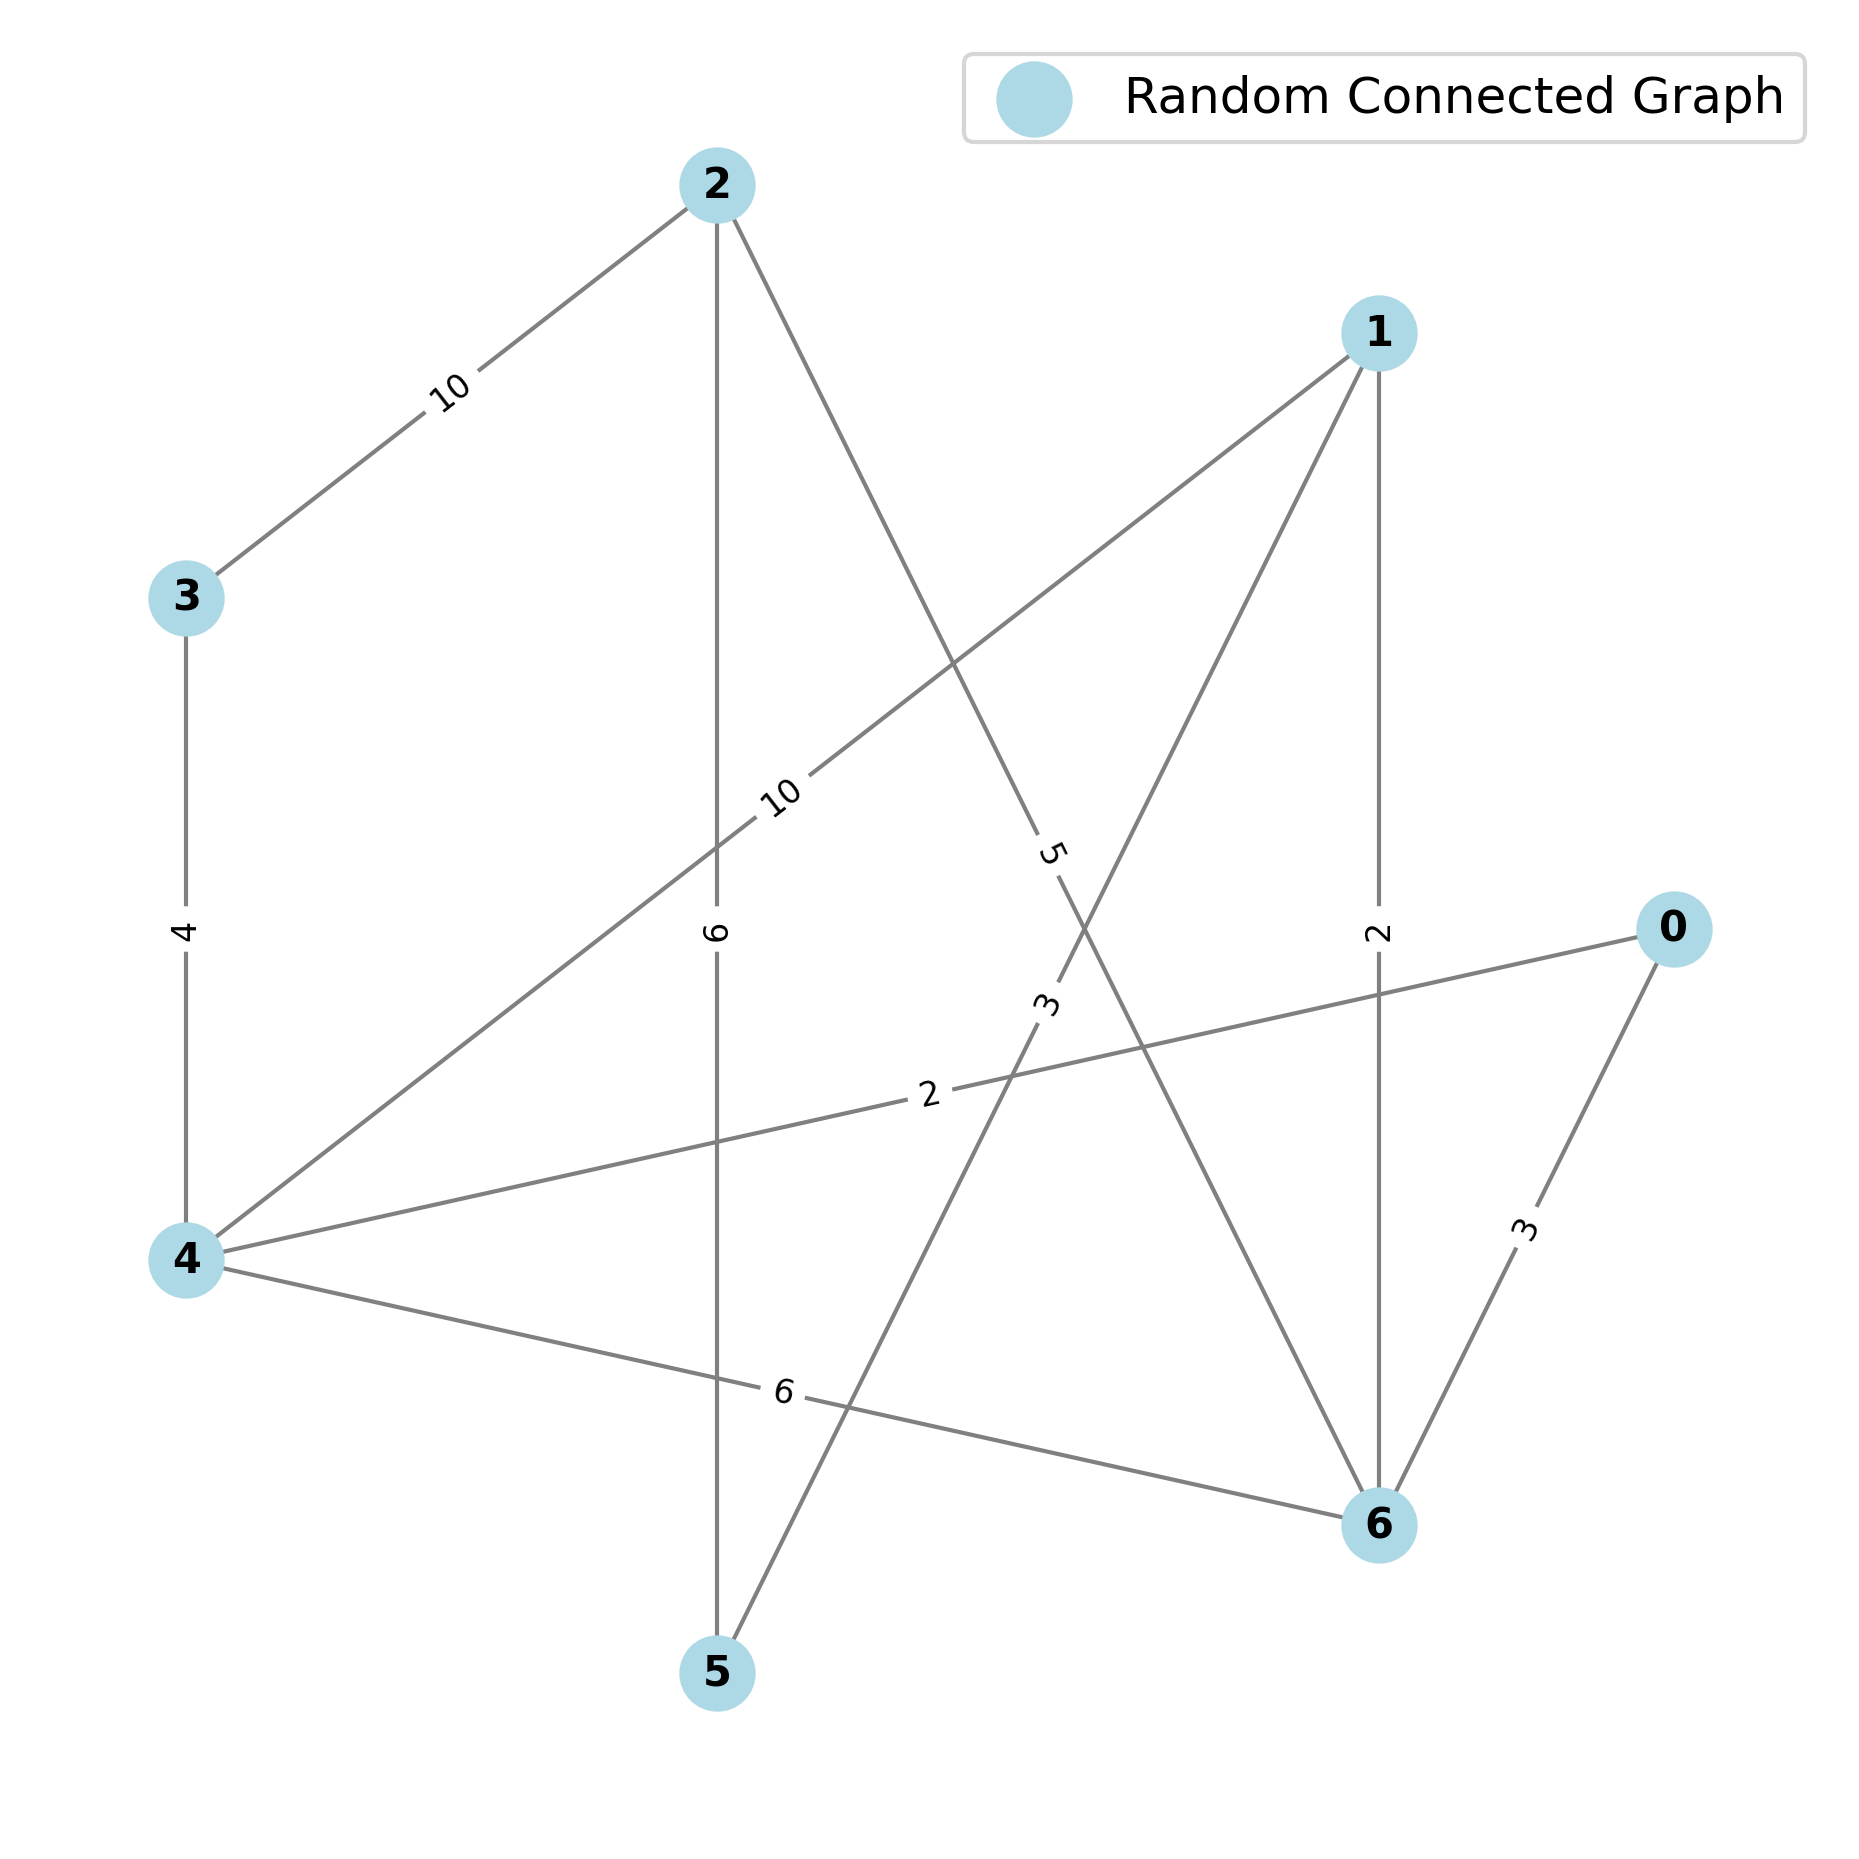
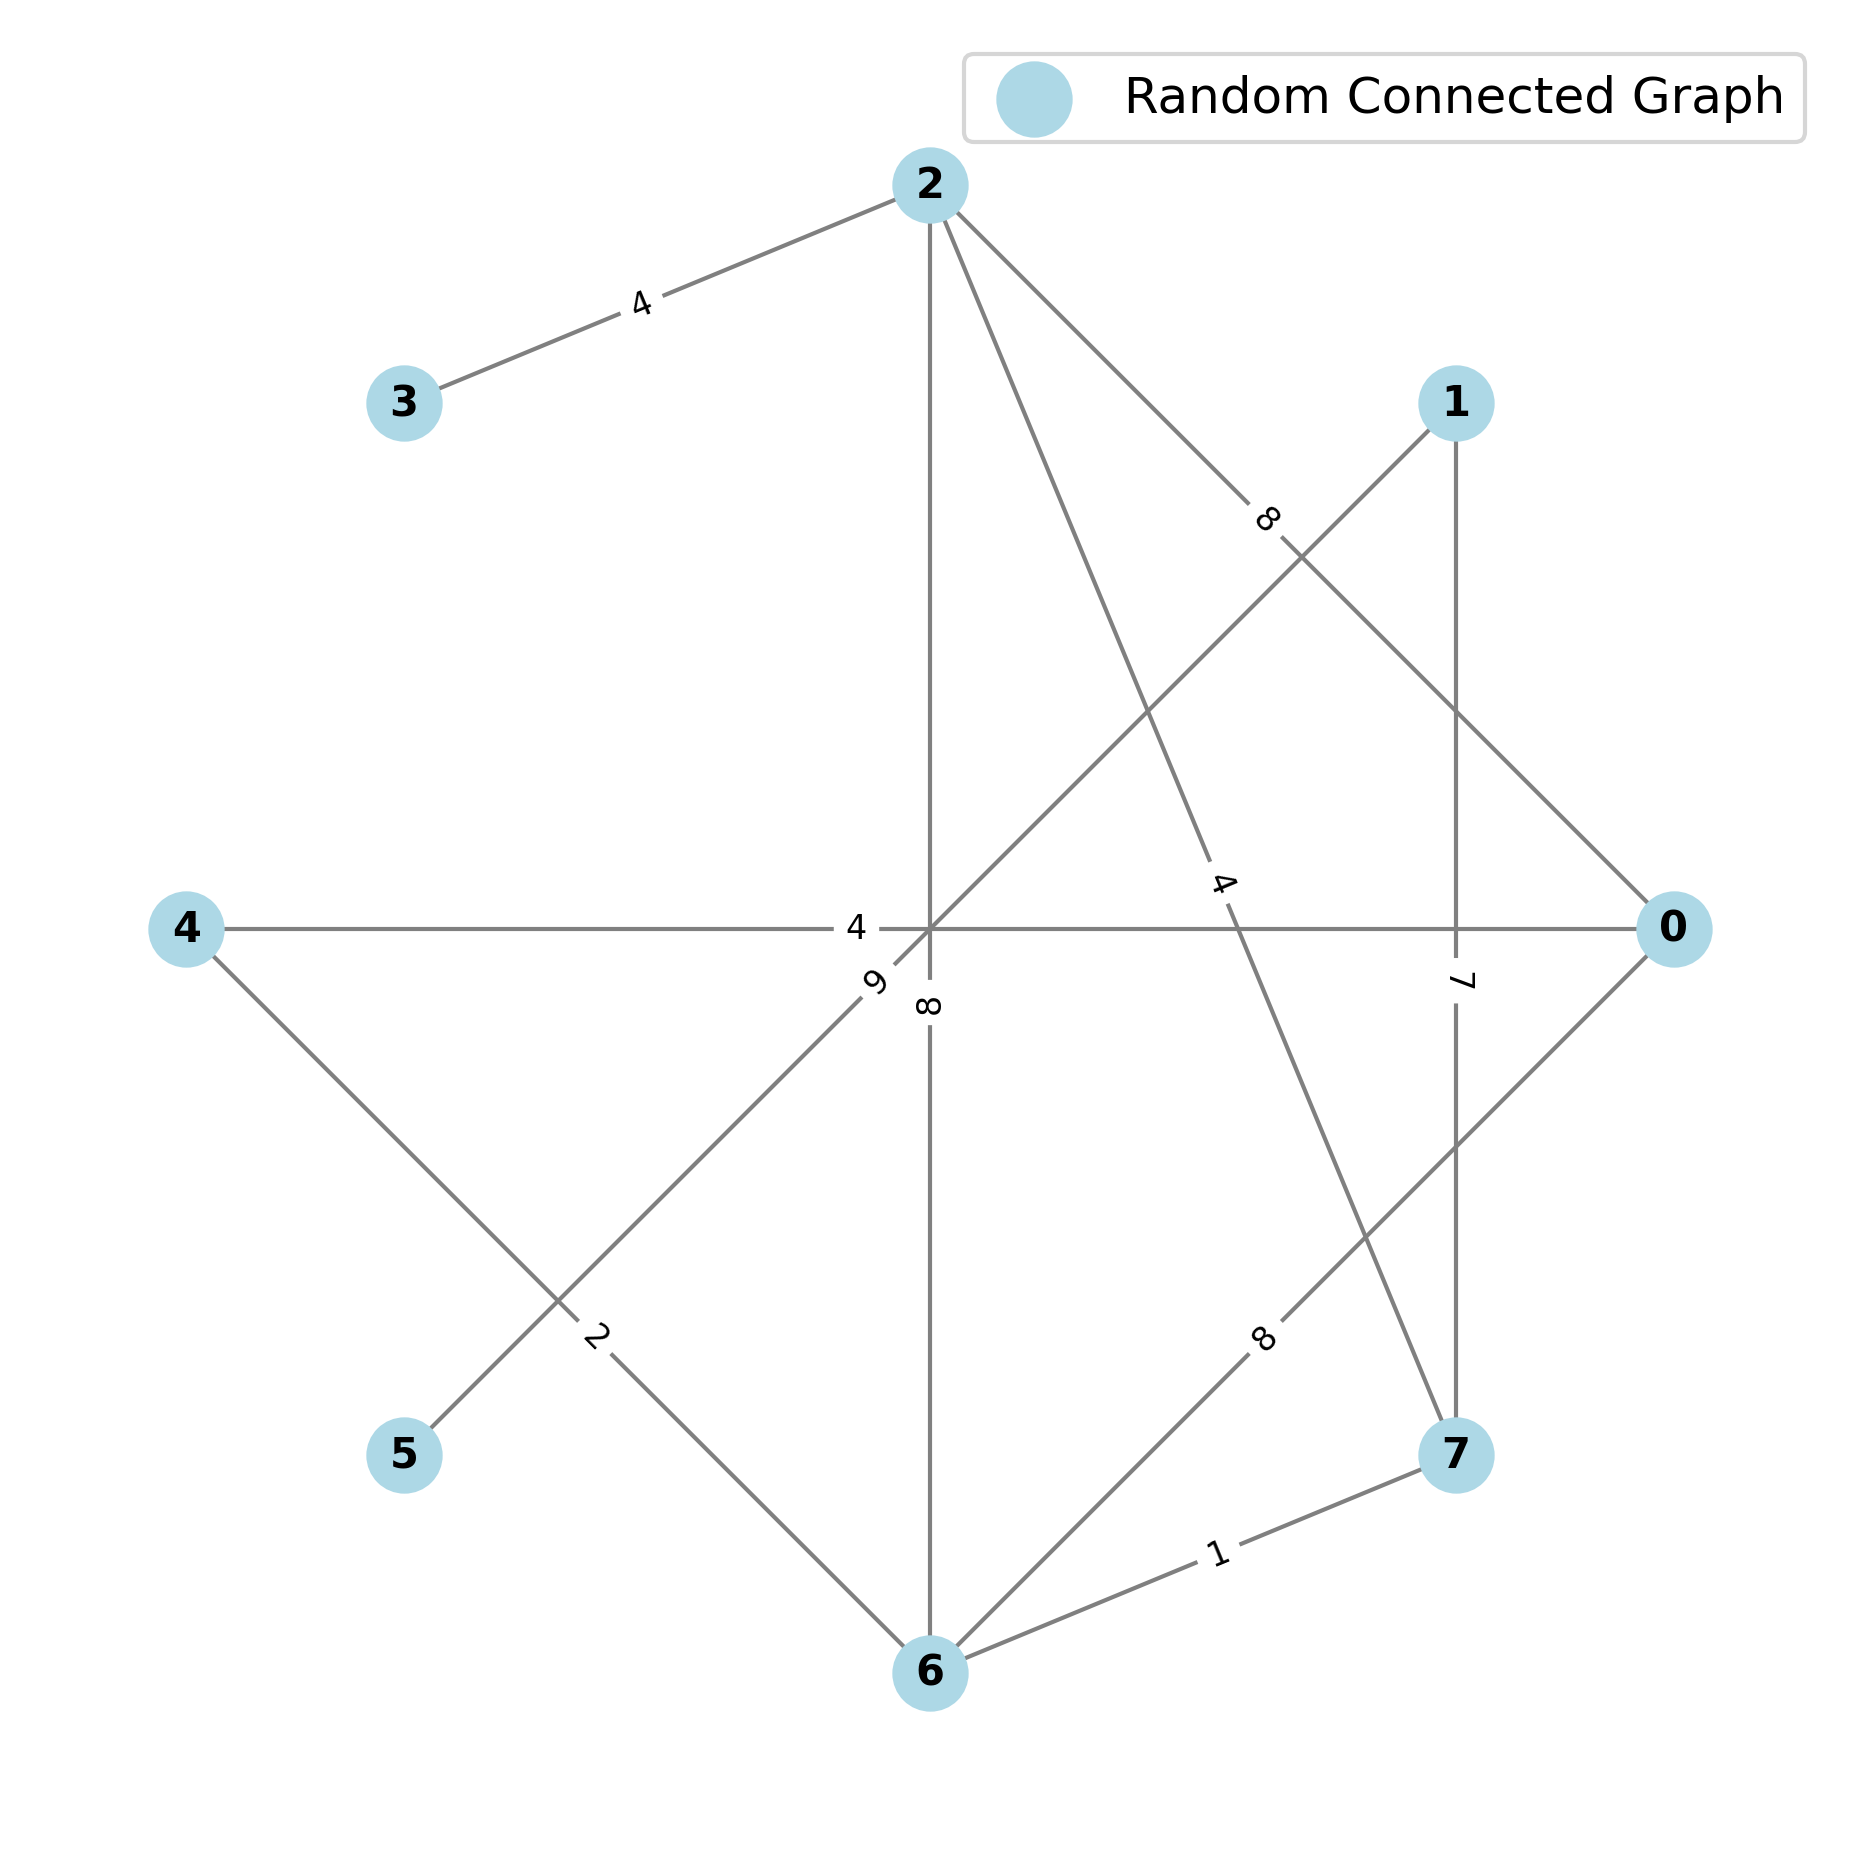
added solutions to tasks: 2,3 for project 3

diff --git a/MyGraph.py b/MyGraph.py
@@ -311,8 +311,72 @@ def largest_connected_component(graph: AdjacencyList):
 
 
 # Zestaw 3
+
 def generate_random_connected_graph(size: int, edges: int) -> AdjacencyList:
     random_graph = generate_random_graph_by_edges(size, edges)
     largest_connected_component_graph = largest_connected_component(random_graph)
     return largest_connected_component_graph
 
+
+def relax(u:int, v:int, weights: dict[tuple[int, int], int] , d: dict[int, int], p: dict[int, Union[int, None]]):
+    w = weights[(u, v)] if u < v else weights[(v, u)]     
+    if d[v] > d[u] + w:
+        d[v] = d[u] + w
+        p[v] = u
+
+
+def dijkstra(graph: Graph, start_node: int) -> tuple[dict[int, int], dict[int, list[int]]]: 
+    if graph.type != GraphRepresentationType.AdjacencyList:
+        graph = graph.to_AL()
+    # Init
+    distances = {v: 1e10 for v in range(graph.size)}  # ds[v]
+    predecessors = {v: None for v in range(graph.size)}       # ps[v]
+    distances[start_node] = 0
+    visited = set()                                           # S
+    
+    while len(visited) < graph.size:
+        current_vertex = min((v for v in range(graph.size) if v not in visited), key=lambda v: distances[v]) 
+        visited.add(current_vertex)                            # S = S ∪ {u}
+        for neighbor in graph.data[current_vertex]:
+            if neighbor not in visited:
+                relax(current_vertex, neighbor, graph.weights, distances, predecessors)  
+        #print(f"Visited: {visited}, Distances: {distances}, Predecessors: {predecessors}")      # Sprawdzenie działania algorytmu
+    #print(f"Final Distances: {distances}, Predecessors: {predecessors}")  # Sprawdzenie działania algorytmu     disctances - ready distances, predecessors - only previous for each of vertices
+    
+    paths = {}
+    for vertex in predecessors:
+        path = [vertex]
+        while predecessors[vertex] is not None:
+            path.append( predecessors[vertex])
+            vertex = predecessors[vertex]
+        paths[path[0]] = path[::-1]
+    
+    #print(paths)
+    print(f'START: s = {start_node}')
+    for i in range(graph.size):
+        print(f'd({i})  = {distances[i]:3}   ==> [{' - '.join([str(v) for v in paths[i]])}]')  
+    return distances, paths
+
+
+def get_distance_matrix(graph: Graph) -> np.ndarray:
+    M = []
+    print(M)
+    for vertice in range(graph.size):
+        print(vertice)
+        distances, _ = dijkstra(graph, vertice)
+        M.append([v for v in distances.values()])
+    return M
+
+def print_matrix_nicely(matrix: list[list[int]]) -> None:
+    print(' ', end='   ')
+    for i in range(len(matrix)):
+        print(f'{i:2}', end = ' ')
+    print()   
+    print(' ', end='  ')
+    for i in range(len(matrix)):
+        print(f'---', end = '')
+    print()
+    for i,row in enumerate(matrix):
+        print(f'{i:2}|', end = ' ')
+        print(" ".join(f'{el:2}' for el in row))
+    print()

diff --git a/zestaw03.py b/zestaw03.py
@@ -9,3 +9,25 @@ if __name__ == '__main__':
     g  = generate_random_connected_graph(8, 10)
     g.add_weights(lambda : random.randint(1, 10))
     Draw(g, "random_connected_graph", "Random Connected Graph", output_dir="outputs/03", with_weights=True)
+    
+    # Zadanie 2
+    # Zaimplementować algorytm Dijkstry do znajdowanian ajkrótszych ścieżek 
+    # od zadanego wierzchołka do pozostałych wierzchołków i zastosować
+    # go do grafu z zadania pierwszego, w którym wagi krawędzi interpreto-
+    # wane są jako odległości wierzchołków. Wypisać wszystkie najkrótsze
+    # ścieżki od danego wierzchołka i ich długości.
+    distances, paths = dijkstra(g, 0)
+    
+    # Zadanie 3
+    # Wyznaczyć macierz odległości miedzy wszystkimi parami wierzchołków na tym grafie.
+    M = get_distance_matrix(g)
+    print("\nDistance matrix:")
+    print_matrix_nicely(M)
+    
+    # Zadanie 4
+    # Wyznaczyć centrum grafu, to znaczy wierzchołek, którego suma od-
+    # ległości do pozostałych wierzchołków jest minimalna. Wyznaczyć cen-
+    # trumminimax, toznaczywierzchołek, któregoodległośćdonajdalszego
+    # wierzchołka jest minimalna.
+    
+    

diff --git a/DrawGraph.py b/DrawGraph.py
@@ -37,12 +37,11 @@ def Draw(graph: Graph, filename: str = "graph.png", legend_title: str = "Graph",
             for (i, j), weight in graph.weights.items():
                 if G.has_edge(i, j):
                     G[i][j]['weight'] = weight
-                    
+            nx.draw_networkx_edge_labels(G, pos, edge_labels=nx.get_edge_attributes(G, 'weight'), font_size=8, label_pos=0.55)
+            
         # checking whether edge weights are set properly            
-        #print(graph.weights)
+        print(f'graph.weights : {graph.weights}')            # wagi krawędzi są zawsze posortowane według pierwszego weirzchołka a pary zawsze sa od mniejszego do większego
         #print(nx.get_edge_attributes(G, 'weight'))
-        
-            nx.draw_networkx_edge_labels(G, pos, edge_labels=nx.get_edge_attributes(G, 'weight'), font_size=8)
             
         plt.legend([legend_title], loc="upper right", fontsize=12)
 
